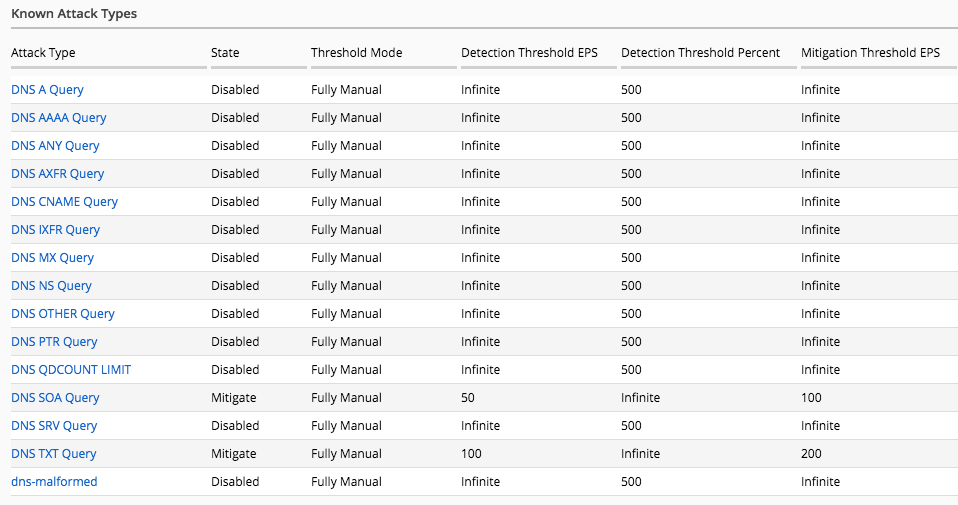
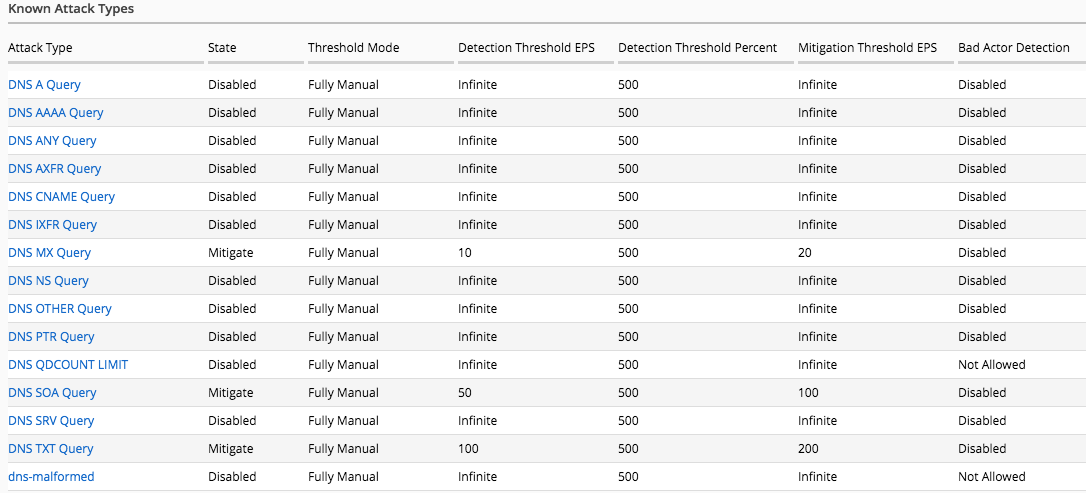
1/27

diff --git a/docs/class11/module3/lab1.rst b/docs/class11/module3/lab1.rst
@@ -1,2 +1,18 @@
 Lab 1.1: Generating Simple DDoS Attacks
 --------------------------------------------------------
+
+With the DoS Profiles applied to the BIG-IP, we can now generate attack traffic that will be detected and mitigated. The Ubuntu host has several simple tools useful in generating packet and application based attacks that will be used. 
+
+By logging to the DCDs of BIG-IQ, both archived reporting and real time dashboards can be used to display attack and traffic information. 
+
+1. Begin by lauching a 
+2. Expand the *Flood* category of attack types
+3. Select *UDP Flood* and modify the settings as shown below: 
+
+
+hping3 --rand-source -i u10000 --udp -p 53 10.1.10.203
+
+
+
+.. note:: Most DoS Vector values are *per TMM*, with one common exception being Single Endpoint Sweep and Flood vectors which aggregates multiple packet types and applies the configured limit across all TMMs. 
+

diff --git a/docs/class11/module2/lab2.rst b/docs/class11/module2/lab2.rst
@@ -8,7 +8,7 @@ First we will create and edit a new DoS Profile:
 1. Under *Configuration* > *Security* > *Shared Security* > *DoS Profiles*, click the *Create* button
 2. Under Properties, give the profile a unique name such as *my_dos_profile*
 3. Select *Protocol DNS Security* and check *DNS Protection* which enables all Attack Types to be viewed and edited
-4. Enable and set the *SOA Query* and *TXT Query* Vectors for manual detection with values shown in the image below
+4. Enable and set the *SOA Query*, *MX Query*, and *TXT Query* Vectors for manual detection with values shown in the image below
 
 .. image:: ../pictures/module2/dns-dos-profile.png
   :align: center
